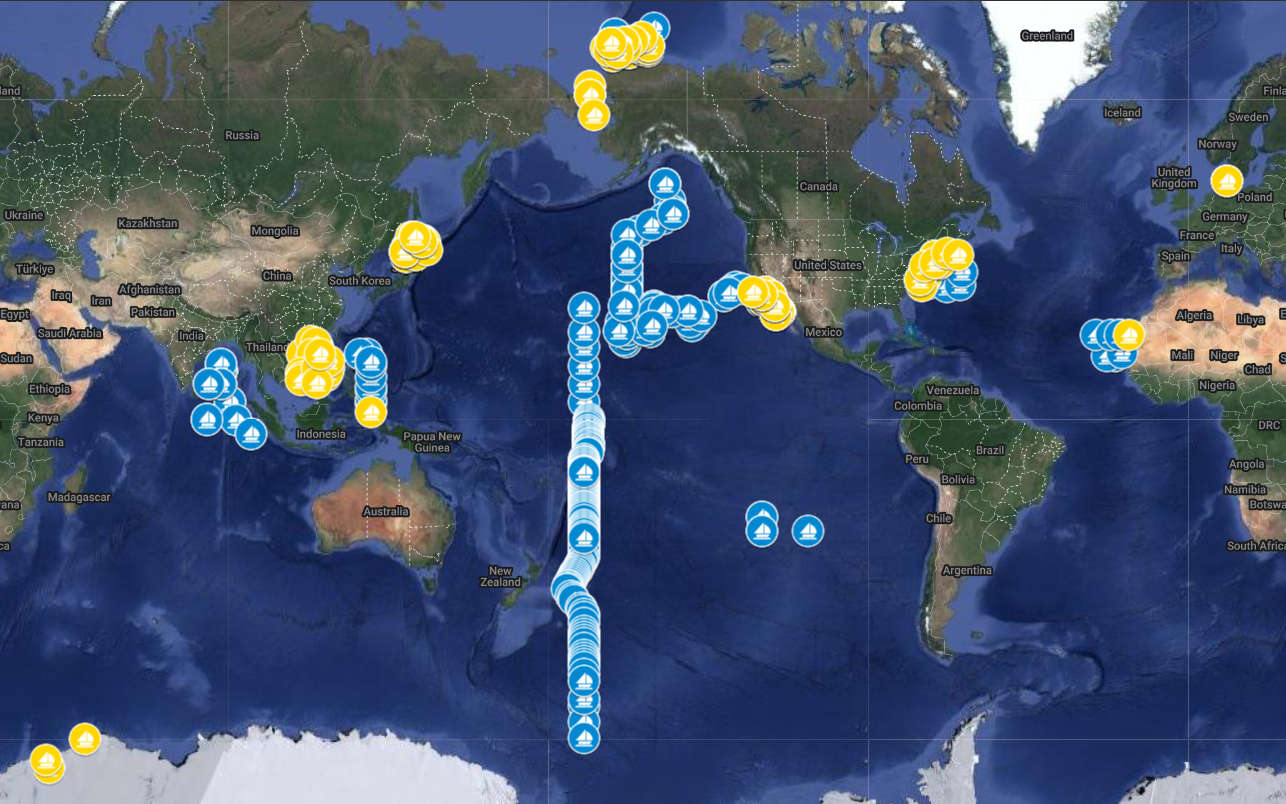
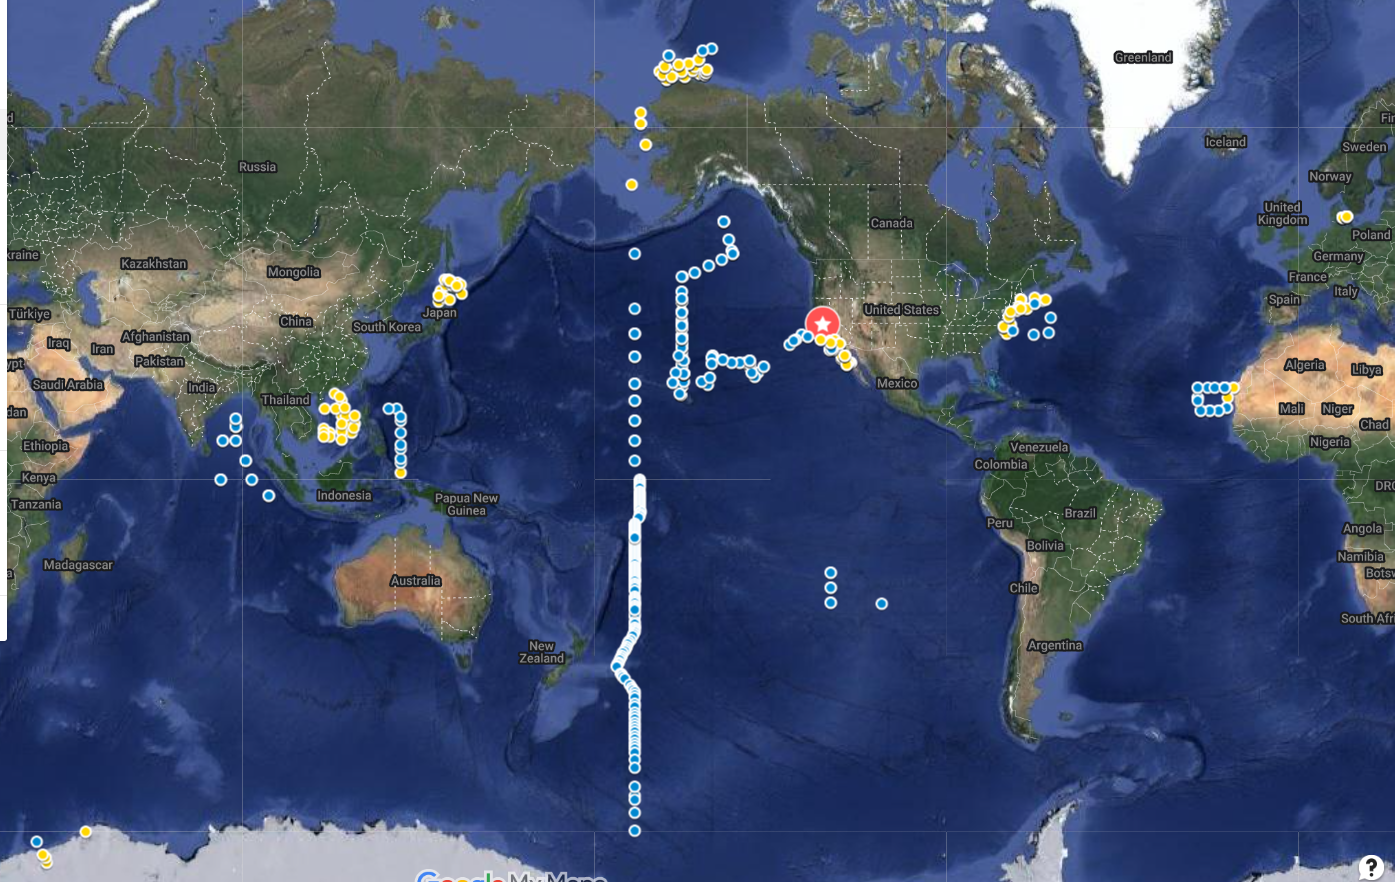
Updated Google Map so it now has 862 samples in the nifH ASV DB and also the Zehr Lab pin with links to resources.

diff --git a/README.md b/README.md
@@ -1,7 +1,7 @@
 # Workflow for processing _nifH_ amplicon data sets
 
 This repository contains all post-pipeline software stages and data deliverables described in Morando, Magasin et al. 2024.  The workflow was used to process nearly all published _nifH_ amplicon MiSeq data sets that existed at the time of publication, as well as two new data sets produced by the [Zehr Lab](https://www.jzehrlab.com/) at [UC Santa Cruz](https://www.ucsc.edu/). The samples are shown in this map which links to an interactive Google map with study names, sample IDs, and collection information for each sample.
-[![Map of studies used in Morando, Magasin et al. 2024](images_for_readme/Morando_Magasin_et_al_2024_studies_used.png)](https://www.google.com/maps/d/embed?mid=1M8ZCYmVIuLwEC-o1Ux_6m--uxgBIu_Q&ehbc=2E312F)
+[![Map of studies used in Morando, Magasin et al. 2024](images_for_readme/Morando_Magasin_et_al_2024_studies_used.png)](https://www.google.com/maps/d/edit?mid=1i3IpZQwmywhLNK-DFnw_3gtrf9gY2u8&usp=sharing)
 
 
 ## Workflow overview
